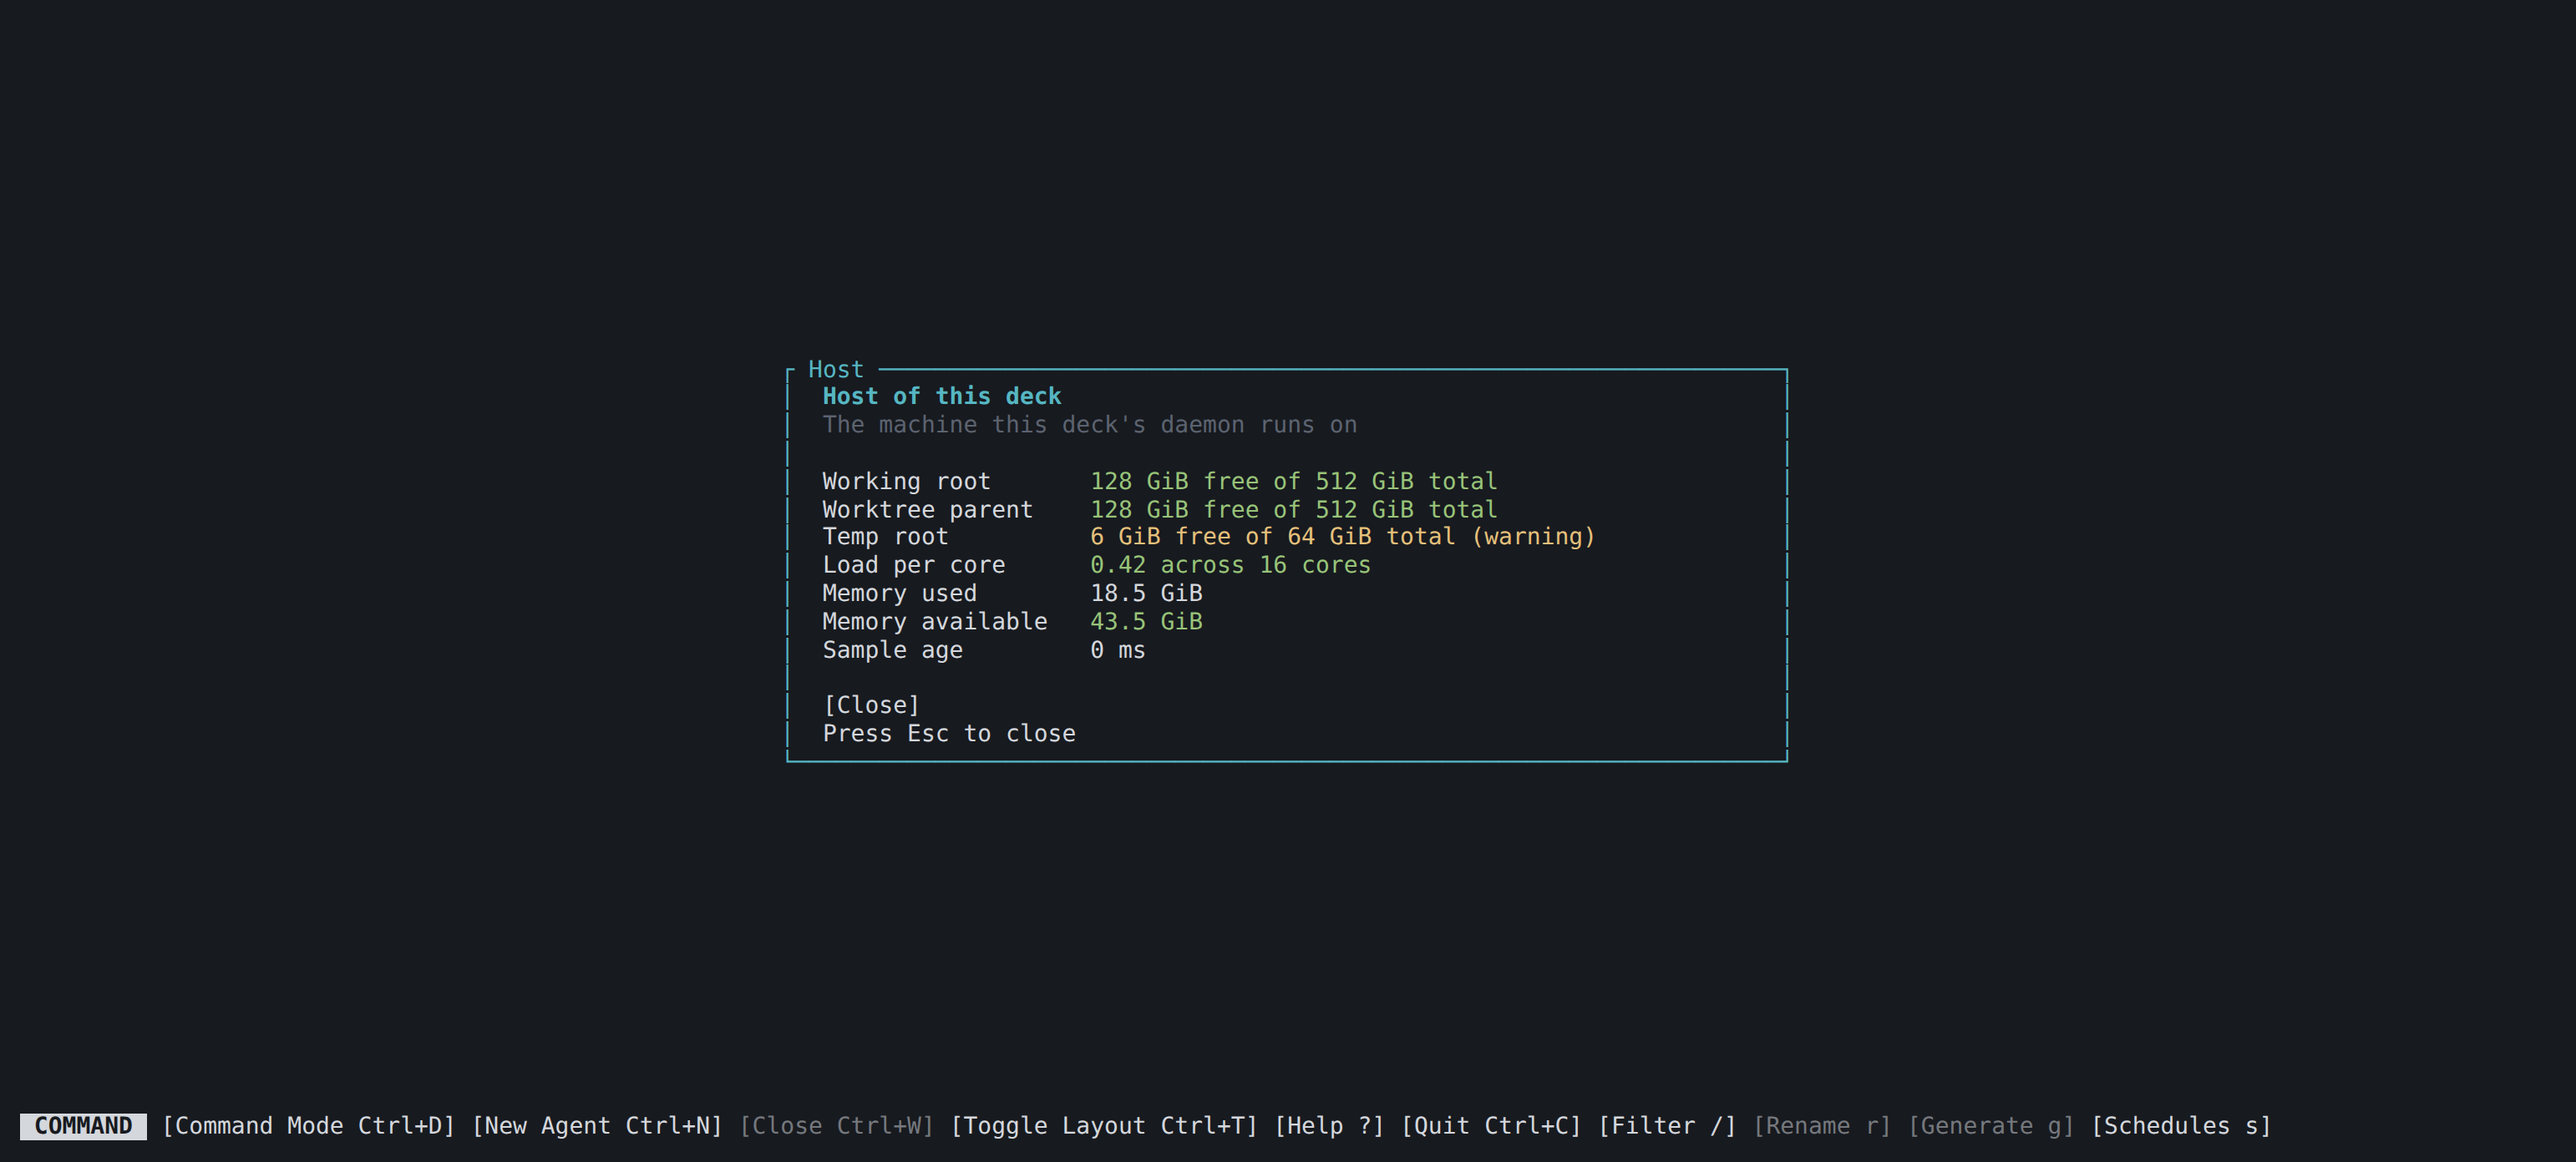
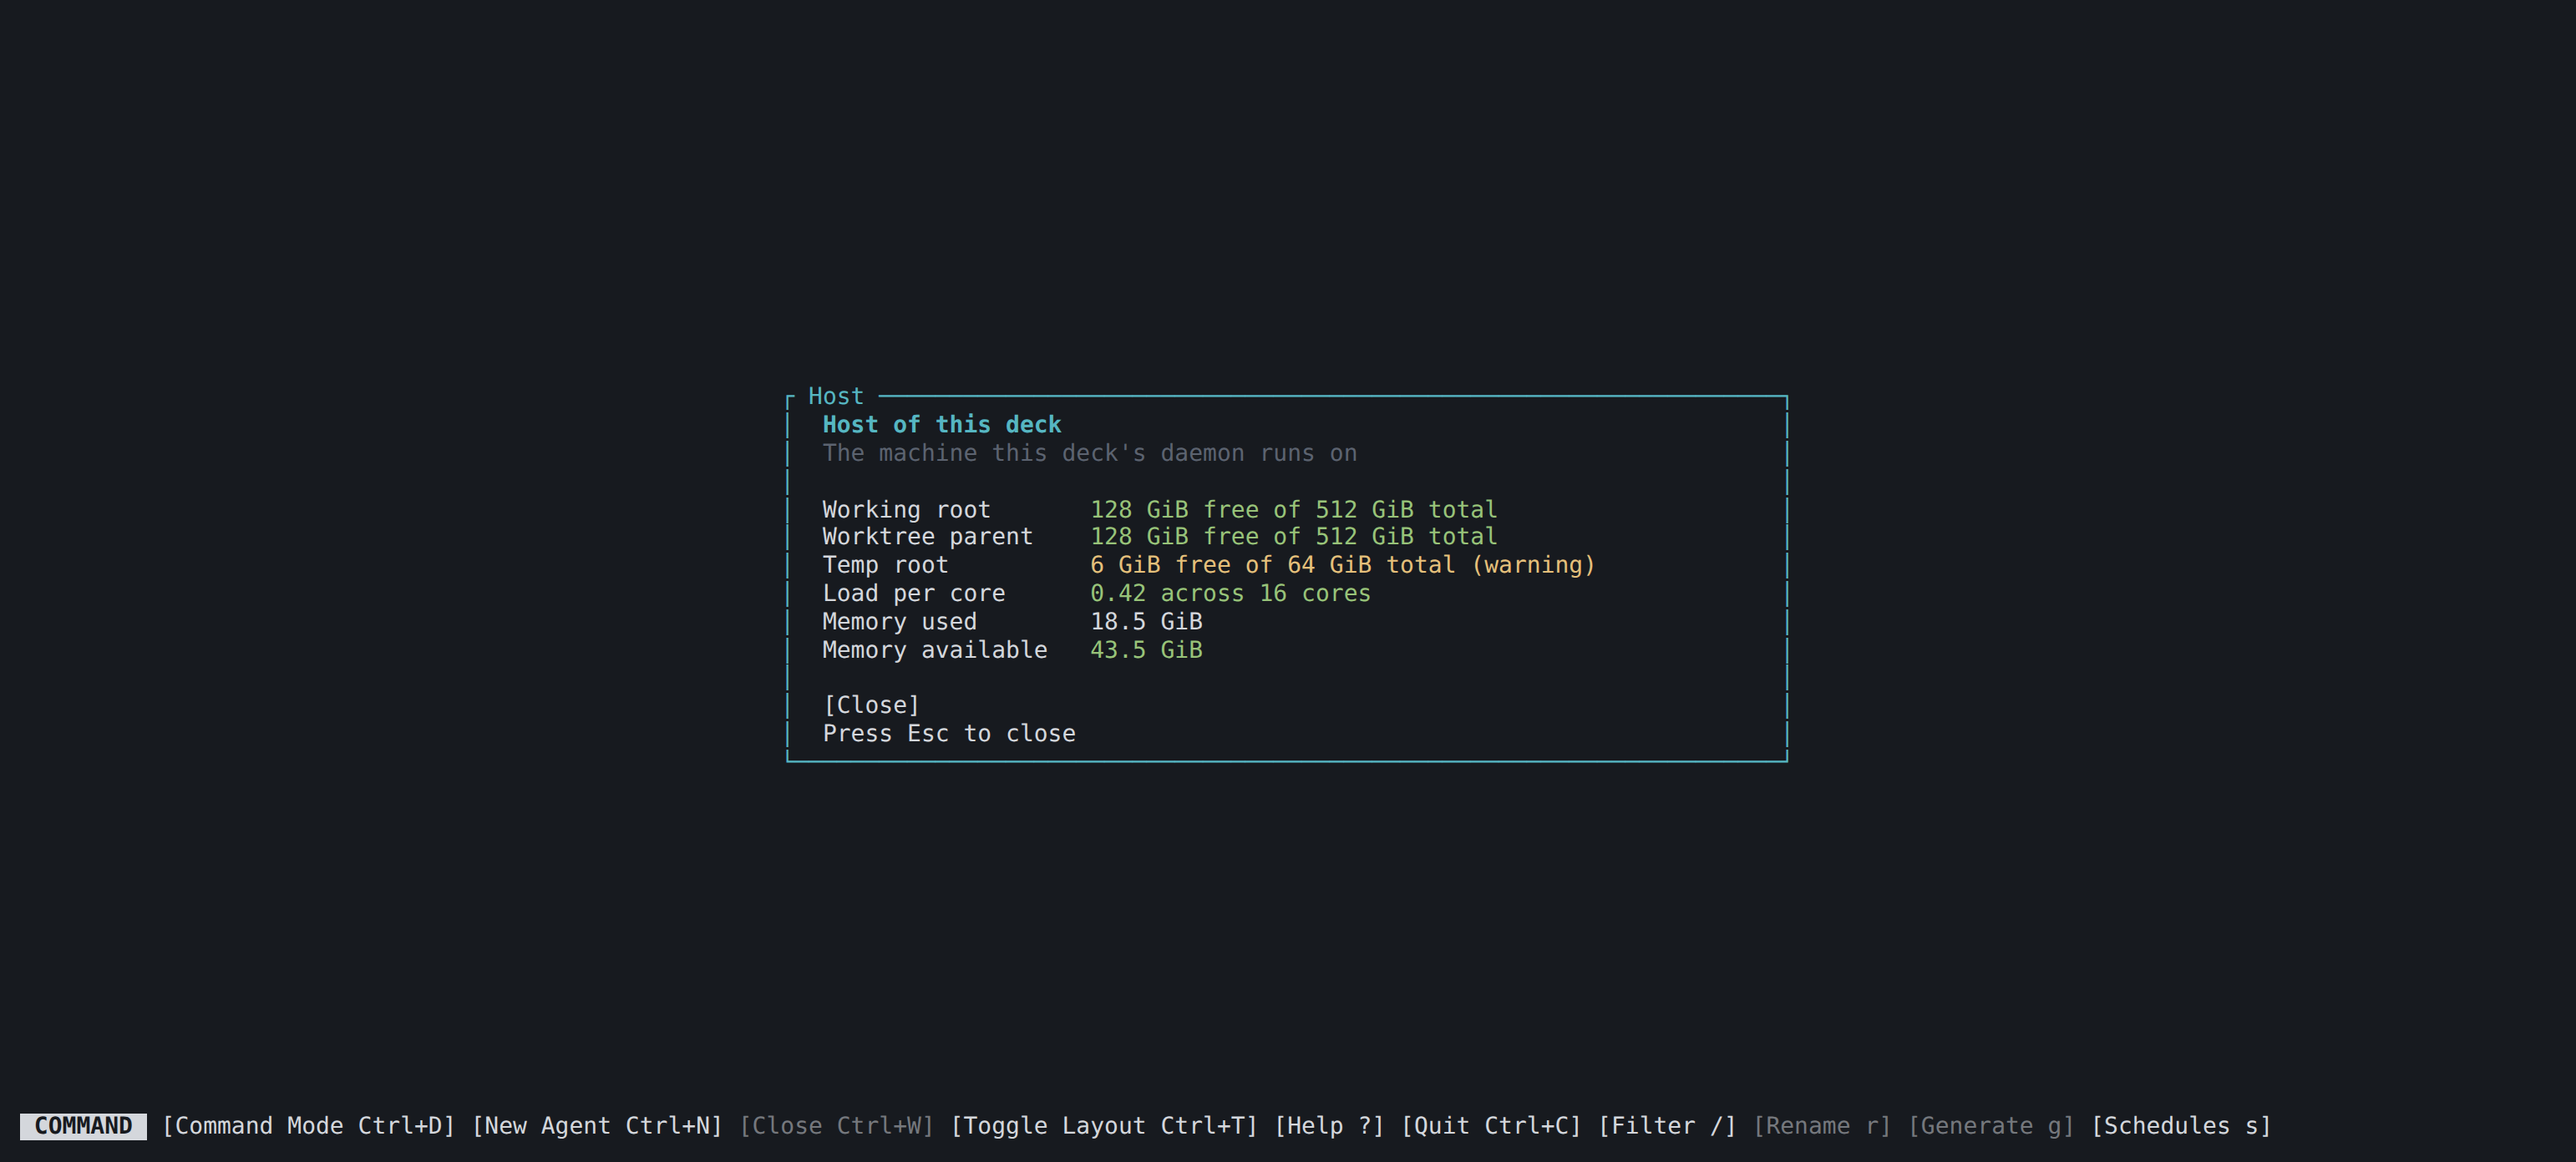
docs(img): regenerate the host-metrics and help screenshots (PR #1672)
cargo docs-screenshots --scenario host-metrics and --scenario help: both
host images without the Sample age row, and the TUI help listing the
Ctrl forms of the letter commands (m / Ctrl+m). The desktop scenario now
waits for the popover's last row instead of the removed "0 ms"; the help
image's alt text names the Ctrl forms.

Changed region(s): [[0.3113, 0.3089, 0.6226, 0.5869]]

diff --git a/desktop/screenshots/desktop.shot.ts b/desktop/screenshots/desktop.shot.ts
@@ -63,7 +63,7 @@ desktopScenario("host-metrics", async (page) => {
   await page.getByTestId("host-metrics-button").click();
   await expect(page.getByTestId("host-metrics")).toContainText("0.42 across 16 cores");
   await expect(page.getByTestId("host-metrics")).toContainText("6 GiB free of 64 GiB total (warning)");
-  await expect(page.getByTestId("host-metrics")).toContainText("0 ms");
+  await expect(page.getByTestId("host-metrics")).toContainText("Memory available43.5 GiB");
 });
 
 /** Select the fixture project's directory in the shared New agent form. */

diff --git a/docs/keyboard-shortcuts.md b/docs/keyboard-shortcuts.md
@@ -4,7 +4,7 @@ Everything on this page is the TUI's, except [Editing an agent's prompt](#editin
 
 Press `?` in command mode to see the shortcuts in the TUI. The overlay and the bottom button bar are generated from your active [keybindings](#customizing-keybindings), so they show your real keys.
 
-![The TUI's help overlay, opened with ?, listing the shortcuts by section: Global (chords work from any pane), with each command's plain letter beside its Ctrl chord such as n / Ctrl+n, Tab Navigation and Dashboard (command mode) on the left; Mouse, New Agent Form, Directory Picker and Session on the right](/img/help-tui.png)
+![The TUI's help overlay, opened with ?, listing the shortcuts by section: Global (chords work from any pane), with each command's plain letter beside its Ctrl chord such as n / Ctrl+n, Tab Navigation and Dashboard (command mode), where the letter commands show their Ctrl form such as m / Ctrl+m, on the left; Mouse, New Agent Form, Directory Picker and Session on the right](/img/help-tui.png)
 
 ## Modes
 
